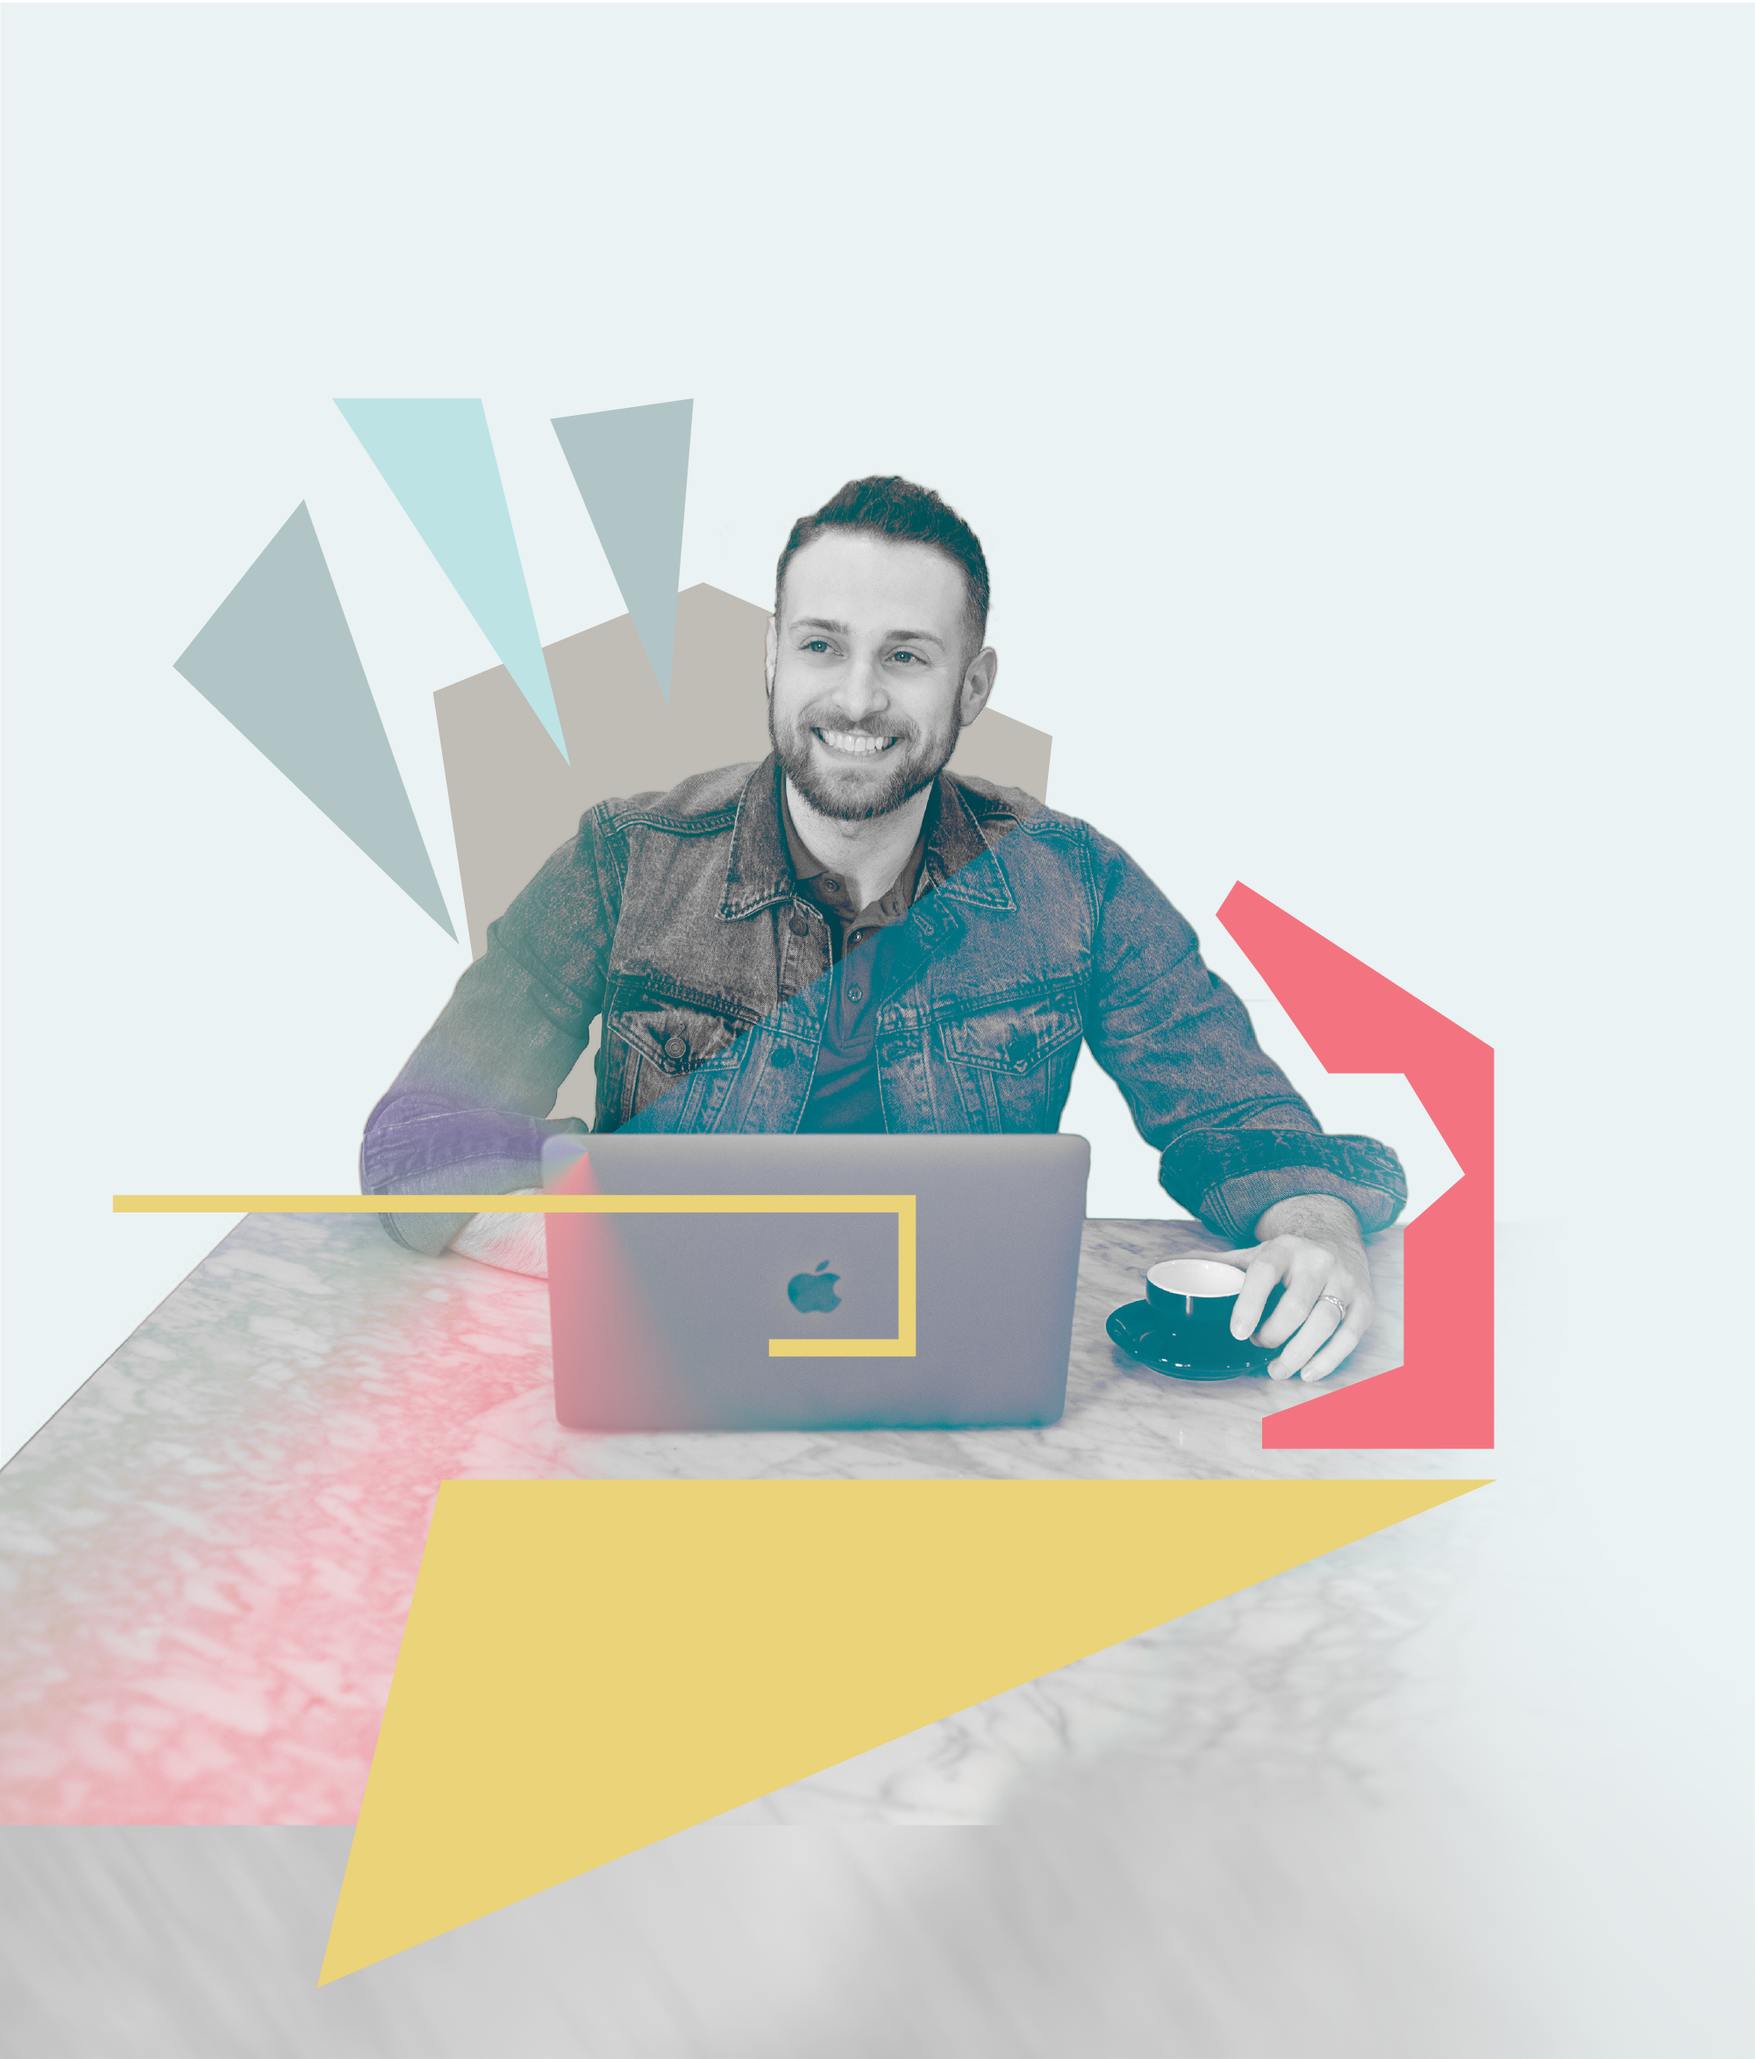
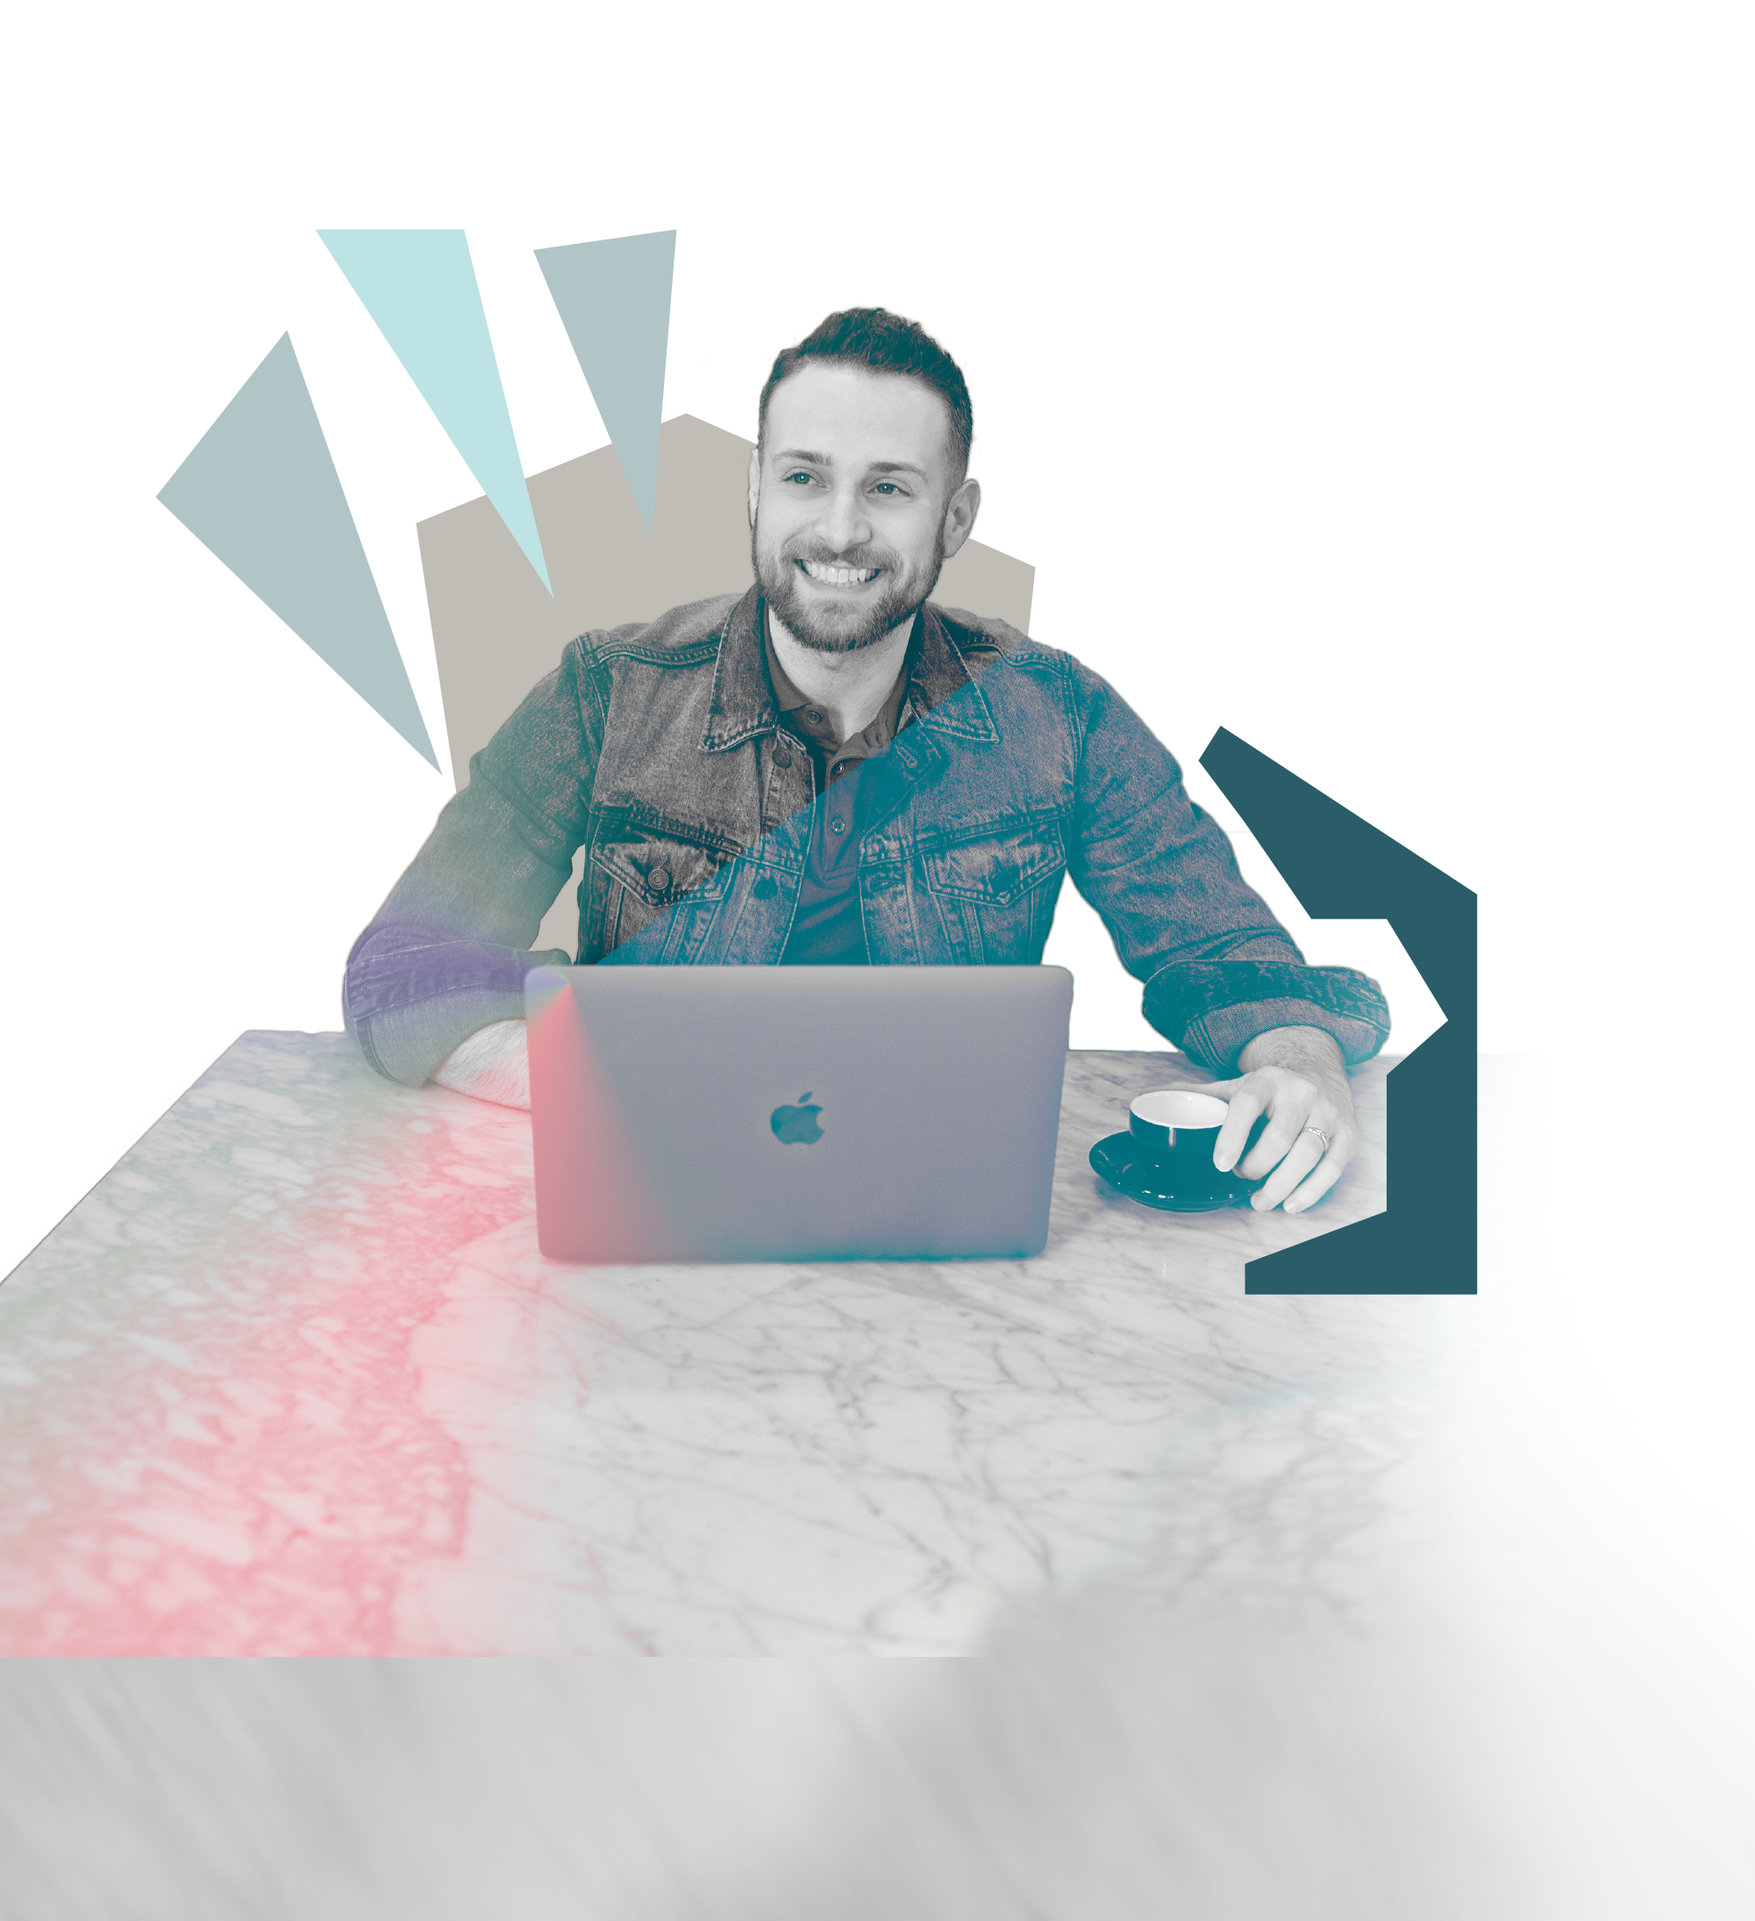
changed css to mimic some of the old site

diff --git a/styles.scss b/styles.scss
@@ -1,10 +1,12 @@
 $primarycolor: #2a5d68;
 $secondarycolor: #ebce9d;
 $tertiarycolor: #c4d6d8;
+$yellow2: #ead379;
 $font: 'Montserrat',
 'Helvetica',
 sans-serif;
 $grey: #8c8c8c;
+$tertiarycolor2: #e47c80;
 
 body {
   margin: 0;
@@ -15,6 +17,19 @@ body {
 }
 
 .container1 {
+
+  .navbar {
+    display: grid;
+    justify-content: center;
+    background-color: rgba(255, 255, 255);
+    text-align: center;
+    top: 0%;
+    width: 100%;
+    box-shadow: 0 0 30px rgba(0, 0, 0, .005);
+    border-bottom: 7px solid #e8c947;
+    z-index: 1;
+  }
+  
   .logo {
     width: 175%;
     height: 175%;
@@ -128,8 +143,6 @@ body {
 }
 
 .container2 {
-  margin-left: 3rem;
-  margin-right: 3rem;
   margin-top: -2rem;
   display: grid;
   grid-gap: .2rem;
@@ -137,6 +150,7 @@ body {
   align-items: top;
   justify-content: left;
   margin-bottom: 2rem;
+  border-bottom:100px solid $tertiarycolor;
 
   .bio1 {
     font-size: 16px;
@@ -145,7 +159,8 @@ body {
   }
 
   img {
-    width: 80%;
+    width: 100%;
+    vertical-align: bottom;
   }
 
   .bio2 {
@@ -176,7 +191,7 @@ body {
   }
 
   button {
-    background: $secondarycolor;
+    background: $primarycolor;
     border: none;
     padding: 2%;
     border-radius: 5px;
@@ -185,9 +200,13 @@ body {
   }
 
   a,
-  a:hover,
   a:visited {
-    color: $grey;
+    color: white;
+    text-decoration: none;
+  }
+
+    a:hover{
+    background-color: $tertiarycolor2;
     text-decoration: none;
   }
 }
@@ -199,31 +218,24 @@ p {
 }
 
 
-
-
-
-.aboutbackground {
-  width: 100%;
-  height: 200px;
-  background-color: $tertiarycolor;
-}
-
-
 .aboutcontainer {
   display: grid;
-  grid-template-columns: (30% 65%);
+  grid-template-columns: repeat(auto-fit, minmax(50px, 600px));
   grid-gap: 3rem;
   align-items: center;
   align-content: center;
   margin: 5rem;
 
   img {
-    border-radius: 50%;
     max-width: 100%;
-    min-width: 40%;
+    min-width: 20%;
   }
 }
 
+.container3 {
+  border-bottom: 100px solid $tertiarycolor;
+  
+}
 
 
 .skillscontainer {
@@ -363,7 +375,7 @@ p {
 }
 
 button {
-  background: #e8c947;
+  background: $yellow2;
   border: none;
   padding: 2%;
   border-radius: 5px;
@@ -389,7 +401,7 @@ a:visited {
 
 #navbar a:link,
 a:visited {
-  background-color: #e8c947;
+  background-color: $yellow2;
   color: white;
   padding: 14px 25px;
   text-align: center;
@@ -517,7 +529,7 @@ a:visited {
 }
 
 footer {
-  background-color: #b1c5c7;
+  background-color: $tertiarycolor;
   padding: .75rem;
   font-size: 1rem;
   height: 8rem;

diff --git a/index.html b/index.html
@@ -20,9 +20,12 @@
 
 <body>
   <div class ="container1" id="home">
+    <div class="navbar">
     <div class="logo" id="logo">
       <img src='images/kmm-logo.png' style="width:40%">
     </div>
+    </div>
+
     <div class="homewrapper" id="home">
       <nav role="navigation">
         <div id="menu_content">
@@ -42,7 +45,7 @@
 
     <div class ="container2">
         <div class="bio1">
-            <img src="images/keith-illustration.png" alt="Keith the Web Developer">
+            <img src="images/Keith2.png" alt="Keith the Web Developer">
         </div>
         <div class="bio2">
             <h1 class="fancy">Hi! I'm Keith</h1>
@@ -60,10 +63,10 @@
         </div>
     </div>
 
-   <div class="aboutbackground"></div>
     <section class="About" id="about">
+        <div class="container3">
         <div class="aboutcontainer">
-            <div><img src="images/keith-headshot.jpg" alt="Keith March Mistler headshot"></div>
+            <div><img src="images/Keith-avatar.png" alt="Keith March Mistler headshot"></div>
             <div class="aboutwrapper">
                 <div class="box2">
                     <h1>Nice to meet you</h1><br/>
@@ -112,8 +115,8 @@
                     <p>Discipline Based Art Education, Visual Thinking Strategies, Social Emotional Learning</p>
                 </div>
                 </div>
+                </div>
     </section>
-   <div class="aboutbackground"></div>
 
     <section class="portfolio" id="portfolio">
         <h1>Recent work</h1>
@@ -159,12 +162,12 @@
     </section>
     </div>
     </main>
-    <div class="contact-wrapper">
+    <div class="contact-wrapper" id="contact">
         <div class="title">
             <h1>Contact me</h1>
         </div>
         
-        <div class="contact-form" id="contact">
+        <div class="contact-form">
             <div class="input-fields">
                 <form action="https://formsubmit.co/your@email.com" method="POST" />
                 <input type="text" class="input" placeholder="Name" name="name">

diff --git a/styles.css b/styles.css
@@ -127,8 +127,6 @@ body {
 }
 
 .container2 {
-  margin-left: 3rem;
-  margin-right: 3rem;
   margin-top: -2rem;
   display: -ms-grid;
   display: grid;
@@ -142,6 +140,7 @@ body {
       -ms-flex-pack: left;
           justify-content: left;
   margin-bottom: 2rem;
+  border-bottom: 100px solid #c4d6d8;
 }
 
 .container2 .bio1 {
@@ -151,7 +150,8 @@ body {
 }
 
 .container2 img {
-  width: 80%;
+  width: 100%;
+  vertical-align: bottom;
 }
 
 .container2 .bio2 span {
@@ -181,7 +181,7 @@ body {
 }
 
 .container2 button {
-  background: #ebce9d;
+  background: #2a5d68;
   border: none;
   padding: 2%;
   border-radius: 5px;
@@ -190,9 +190,13 @@ body {
 }
 
 .container2 a,
-.container2 a:hover,
 .container2 a:visited {
-  color: #8c8c8c;
+  color: white;
+  text-decoration: none;
+}
+
+.container2 a:hover {
+  background-color: #e47c80;
   text-decoration: none;
 }
 
@@ -202,17 +206,11 @@ p {
   font-weight: 100;
 }
 
-.aboutbackground {
-  width: 100%;
-  height: 200px;
-  background-color: #c4d6d8;
-}
-
 .aboutcontainer {
   display: -ms-grid;
   display: grid;
-  -ms-grid-columns: 30% 65%;
-      grid-template-columns: 30% 65%;
+  -ms-grid-columns: (minmax(50px, 600px))[auto-fit];
+      grid-template-columns: repeat(auto-fit, minmax(50px, 600px));
   grid-gap: 3rem;
   -webkit-box-align: center;
       -ms-flex-align: center;
@@ -223,9 +221,12 @@ p {
 }
 
 .aboutcontainer img {
-  border-radius: 50%;
   max-width: 100%;
-  min-width: 40%;
+  min-width: 20%;
+}
+
+.container3 {
+  border-bottom: 100px solid #c4d6d8;
 }
 
 .skillscontainer {
@@ -378,7 +379,7 @@ p {
 }
 
 button {
-  background: #e8c947;
+  background: #ead379;
   border: none;
   padding: 2%;
   border-radius: 5px;
@@ -571,7 +572,7 @@ a:visited {
 }
 
 footer {
-  background-color: #b1c5c7;
+  background-color: #c4d6d8;
   padding: .75rem;
   font-size: 1rem;
   height: 8rem;
